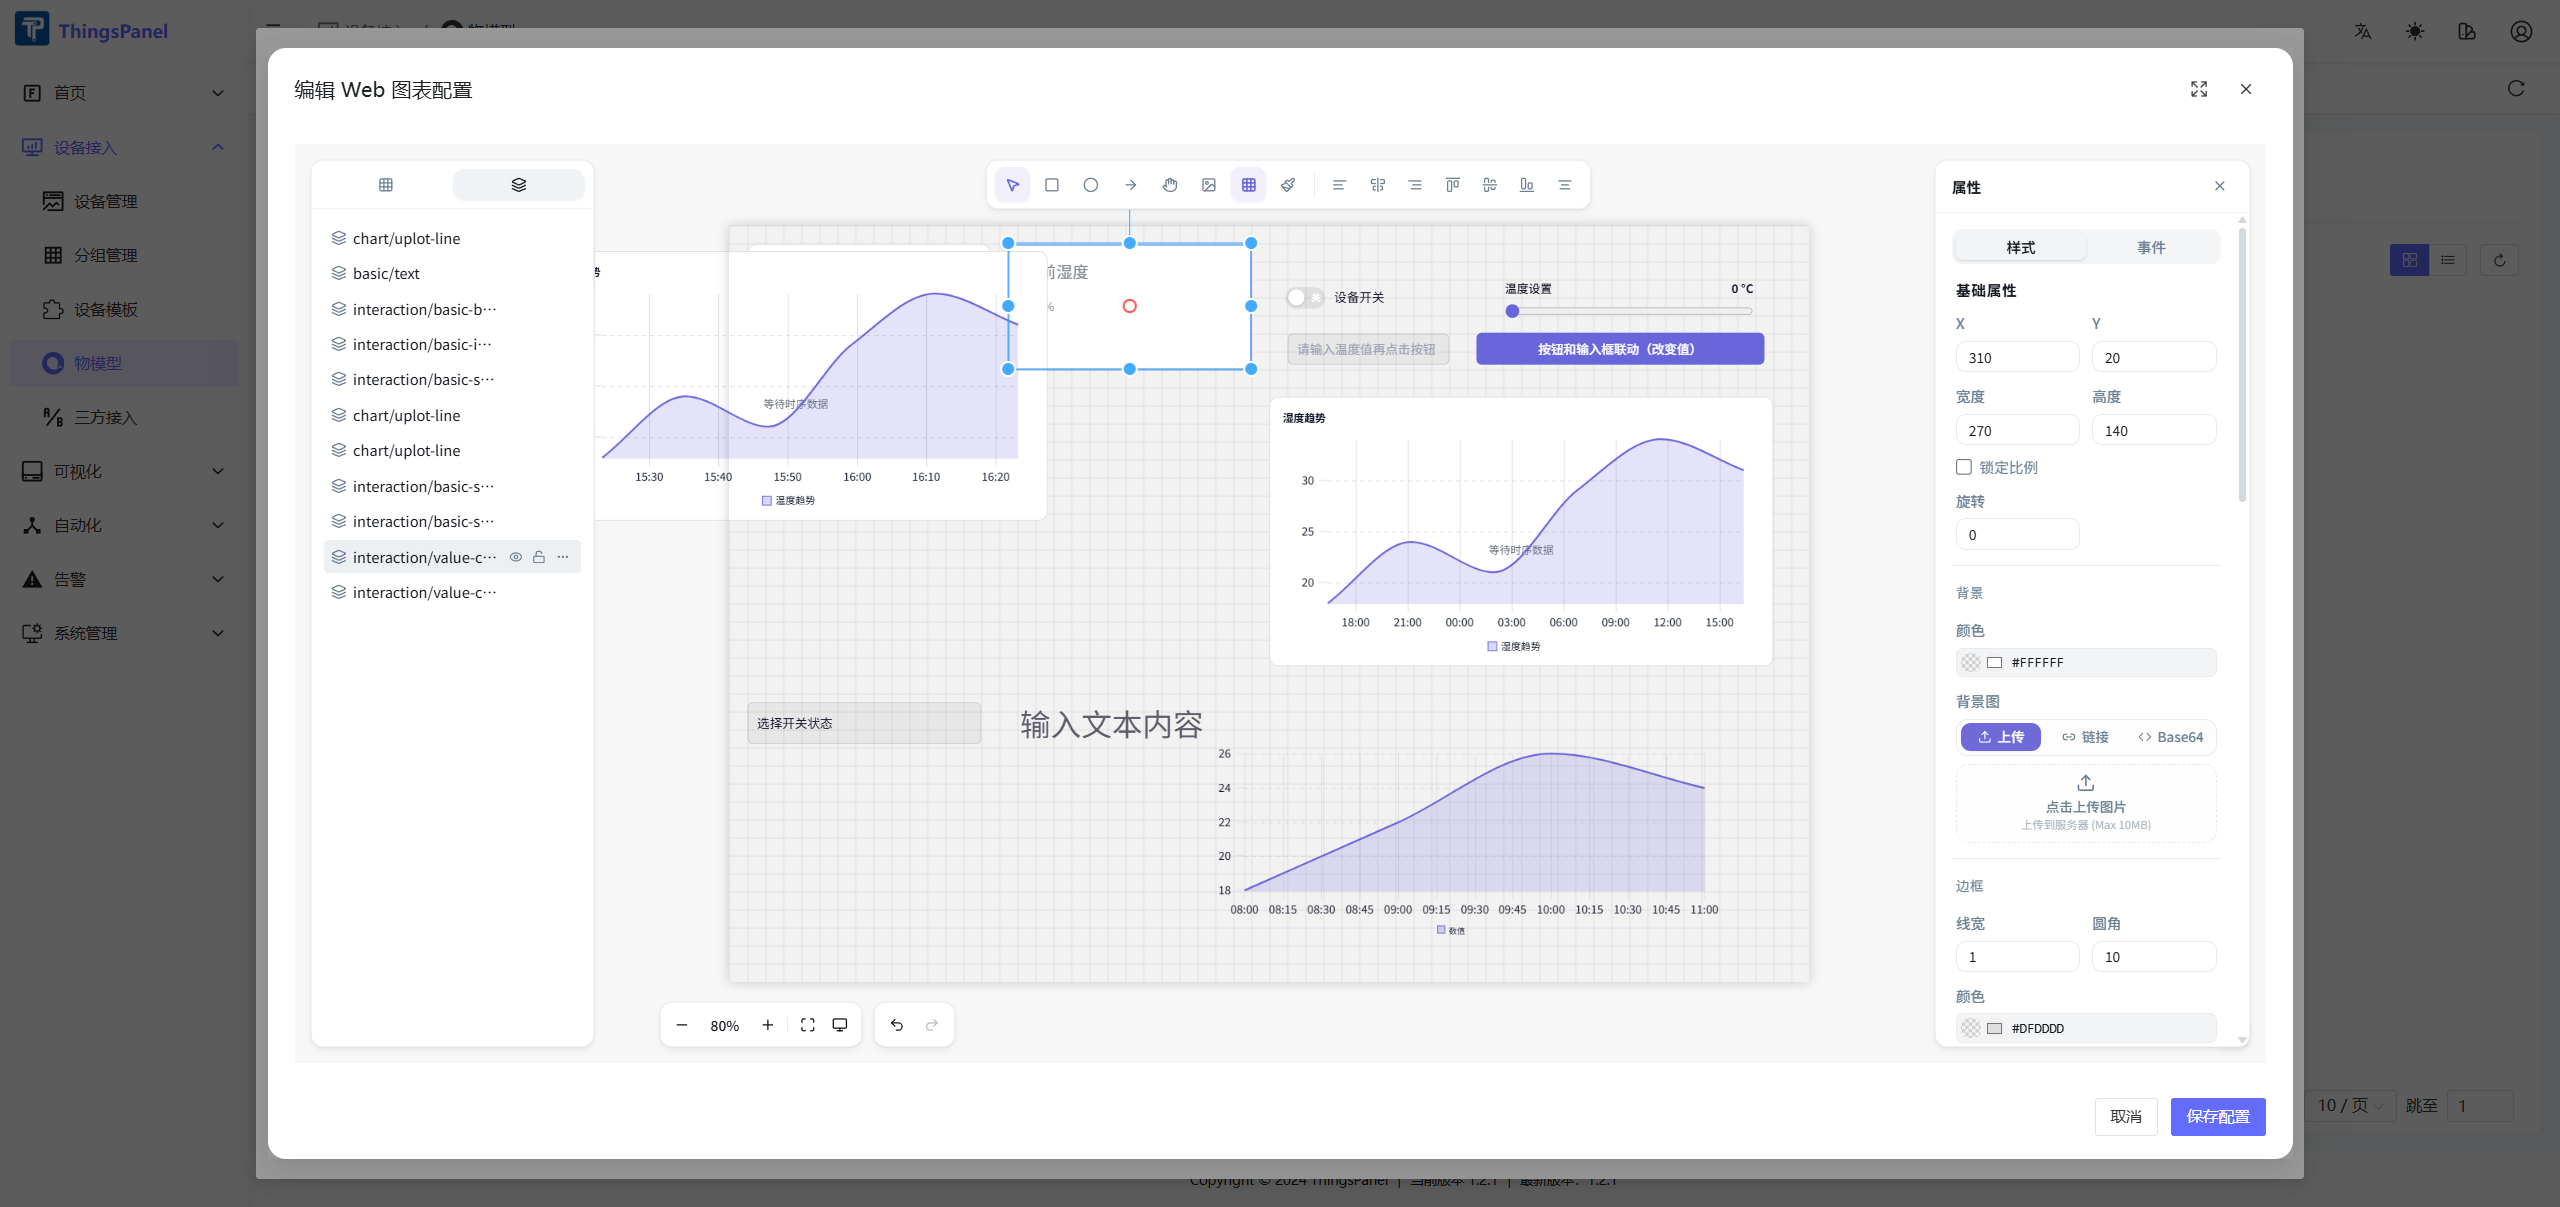
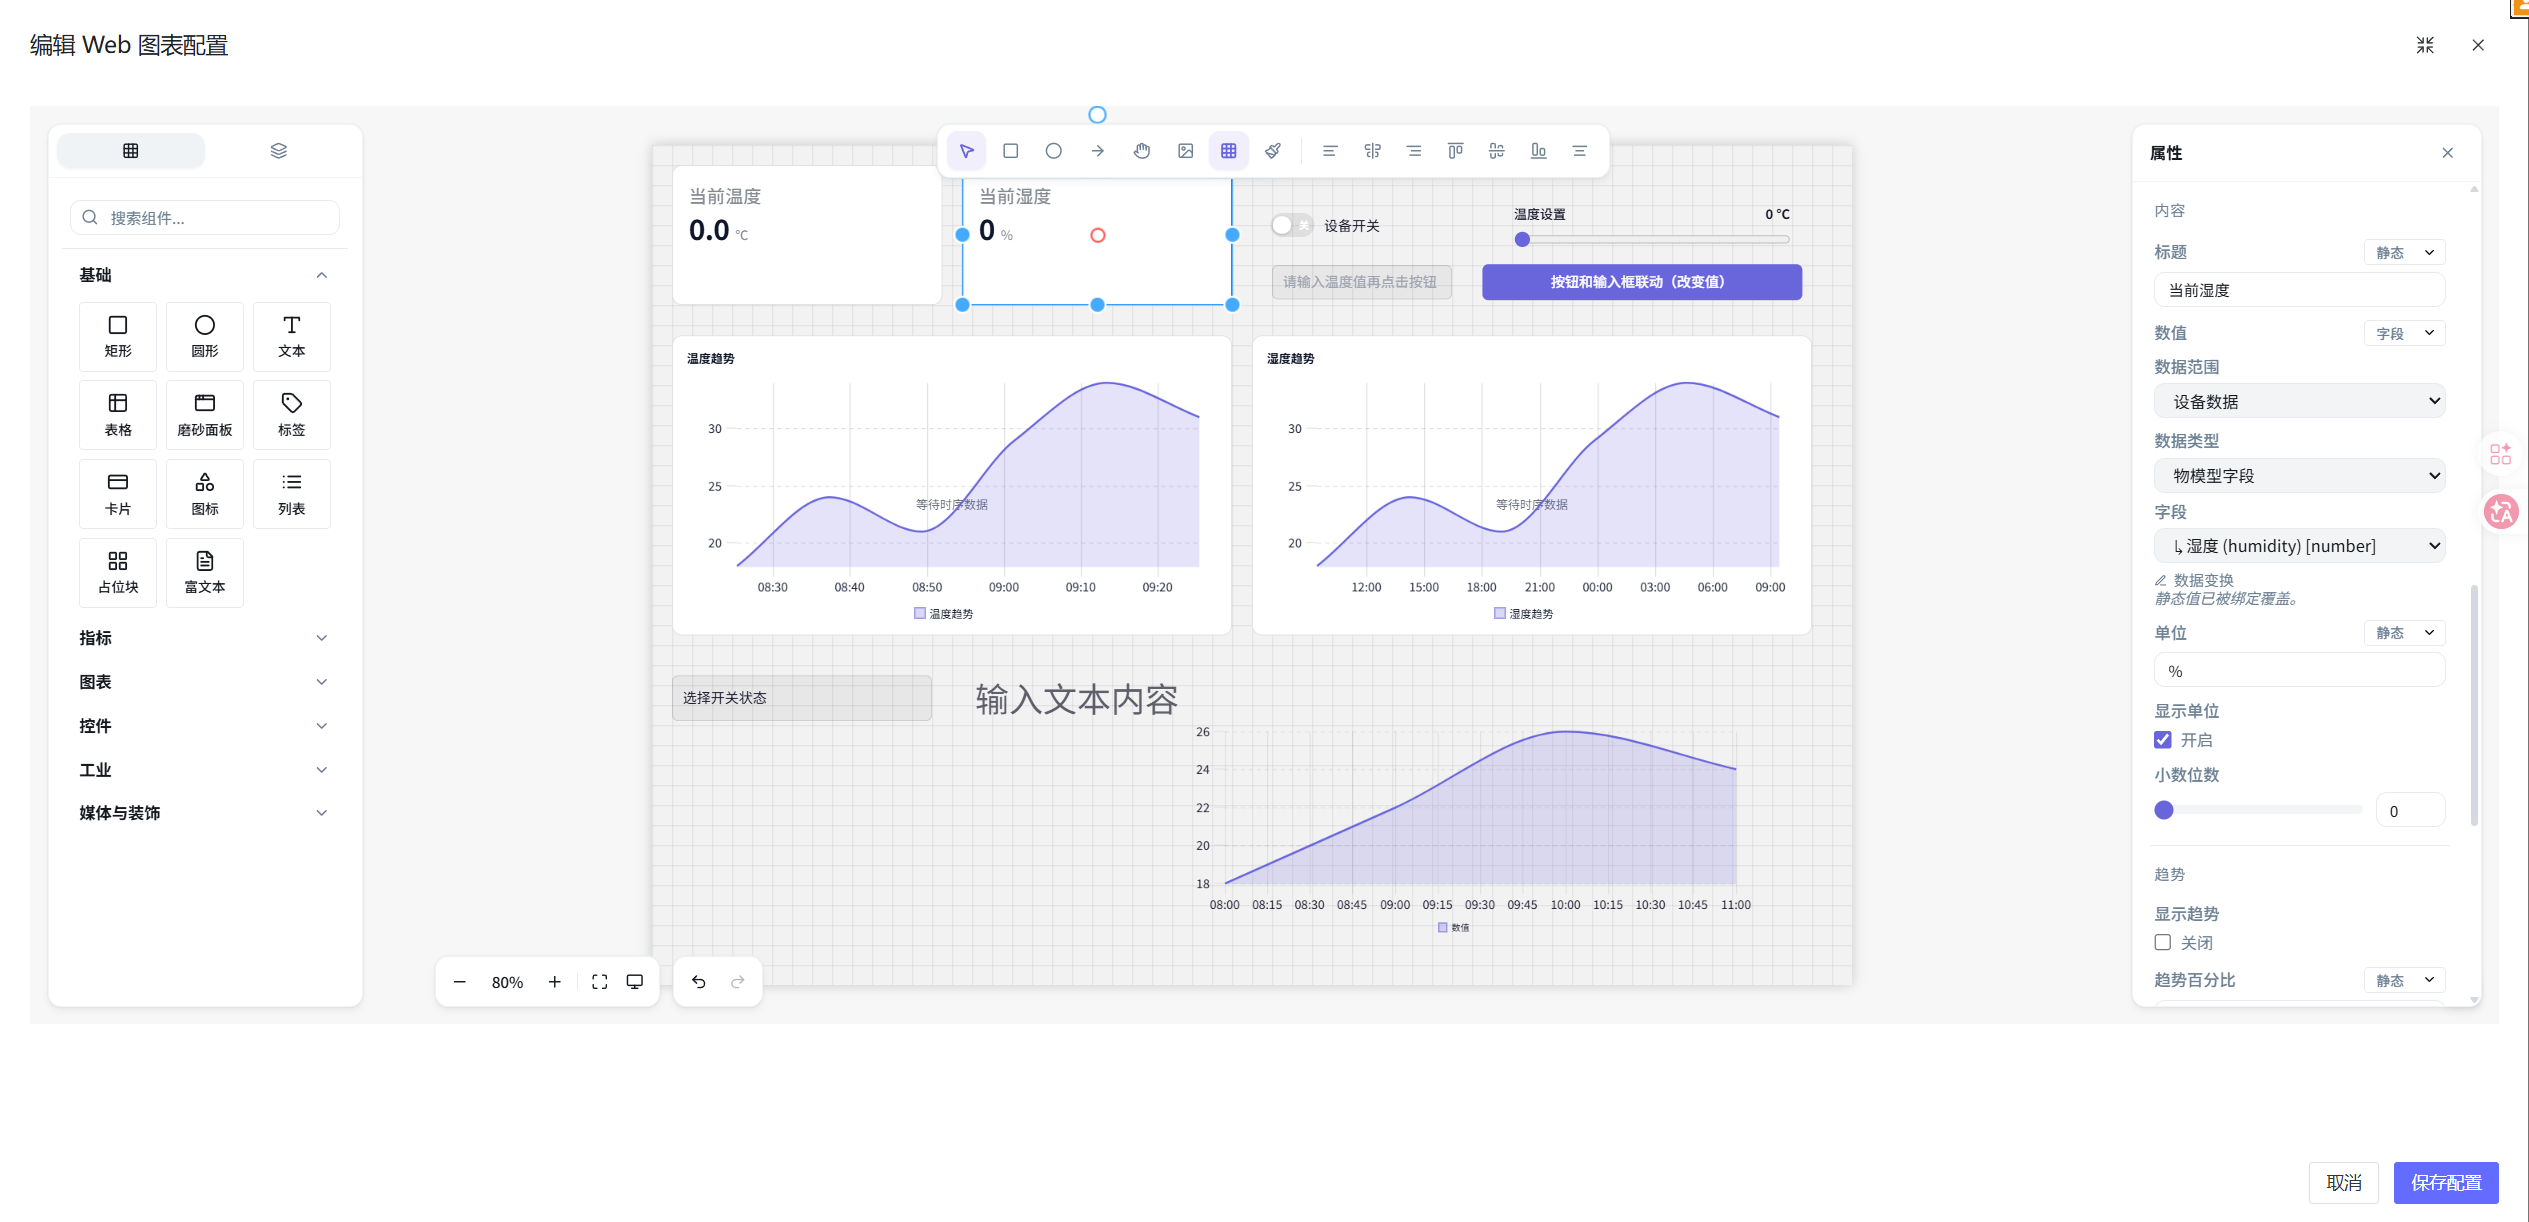
docs: refine thing model binding guide

diff --git a/docs/user-guide/tenant-operation-manual/device-mgt/device_template.md b/docs/user-guide/tenant-operation-manual/device-mgt/device_template.md
@@ -53,15 +53,15 @@ The Web chart step is configured through the embedded ThingsVis preview and edit
 
 Select a widget on the canvas, or switch to **Layers** and select the target widget by name. The selected widget's binding options are shown in the right property panel.
 
-For a trend chart, select a line chart widget, such as `chart/uplot-line`. In **Content**, configure the chart title and display options. In **Data**, set the dataset binding mode to **Field**, set **Data Range** to **Device Data**, set **Data Type** to **Historical Data**, and select a historical array field such as `temperature__history` or `humidity__history`. Configure the time range, aggregation function, aggregation window, smooth curve, and area fill as needed.
+For a trend chart, select a line chart widget, such as `chart/uplot`. In **Content**, configure the chart title and display options. In **Data**, set the dataset binding mode to **Field**, set **Data Range** to **Device Data**, set **Data Type** to **Historical Data**, and select a historical array field such as `temperature__history` or `humidity__history`. Configure the time range, aggregation function, aggregation window, smooth curve, and area fill as needed.
 
 ![Trend Chart Data Binding](./images/image70.png)
 
-For a value card, select `interaction/value-card-simple`. Set the card title, then set the value binding mode to **Field**. Use **Device Data** as the data range, **Thing Model Field** as the data type, and select a numeric field such as `humidity` or `temperature`. Configure the unit, whether to show the unit, the decimal places, and optional trend or icon display.
+For a value card, select `interaction/value-card`. Set the card title, then set the value binding mode to **Field**. Use **Device Data** as the data range, **Thing Model Field** as the data type, and select a numeric field such as `humidity` or `temperature`. Configure the unit, whether to show the unit, the decimal places, and optional trend or icon display.
 
 ![Value Card Data Binding](./images/image71.png)
 
-For a switch, select `interaction/basic-switch`. Set **Switch Status** to **Field**, use **Device Data** as the data range, select **Thing Model Field**, and bind it to a Boolean field such as `switch`. Configure the label text, label position, on/off text, size, colors, and behavior options such as disabled state or confirmation before switching.
+For a switch, select `interaction/switch`. Set **Switch Status** to **Field**, use **Device Data** as the data range, select **Thing Model Field**, and bind it to a Boolean field such as `switch`. Configure the label text, label position, on/off text, size, colors, and behavior options such as disabled state or confirmation before switching.
 
 ![Switch Data Binding](./images/image72.png)
 

diff --git a/i18n/zh-Hans/docusaurus-plugin-content-docs/current/user-guide/tenant-operation-manual/device-mgt/device_template.md b/i18n/zh-Hans/docusaurus-plugin-content-docs/current/user-guide/tenant-operation-manual/device-mgt/device_template.md
@@ -53,15 +53,15 @@ sidebar_position: 4
 
 在画布中选中组件，或切换到 **图层** 后按组件名称选择目标组件。选中后，右侧属性面板会显示该组件的数据绑定项。
 
-配置曲线图时，选择 `chart/uplot-line` 等折线图组件。在 **内容** 中设置标题、图例、X 轴、Y 轴等显示项；在 **数据** 中将数据集绑定模式设为 **字段**，数据范围选择 **设备数据**，数据类型选择 **历史数据**，字段选择 `temperature__history` 或 `humidity__history` 这类历史数组字段。随后按需要设置时间范围、聚合函数、聚合窗口、平滑曲线和面积填充。
+配置曲线图时，选择 `图表/时序图` 等折线图组件。在 **内容** 中设置标题、图例、X 轴、Y 轴等显示项；在 **数据** 中将数据集绑定模式设为 **字段**，数据范围选择 **设备数据**，数据类型选择 **历史数据**，字段选择 `temperature__history` 或 `humidity__history` 这类历史数组字段。随后按需要设置时间范围、聚合函数、聚合窗口、平滑曲线和面积填充。
 
 ![曲线图数据绑定](./images/image70.png)
 
-配置数值卡片时，选择 `interaction/value-card-simple`。先设置卡片标题，再将 **数值** 的绑定模式设为 **字段**。数据范围选择 **设备数据**，数据类型选择 **物模型字段**，字段选择 `humidity` 或 `temperature` 等数值字段。根据物模型字段设置单位、是否显示单位、小数位数，也可以按需要开启趋势或图标。
+配置数值卡片时，选择 `指标/数值`。先设置卡片标题，再将 **数值** 的绑定模式设为 **字段**。数据范围选择 **设备数据**，数据类型选择 **物模型字段**，字段选择 `humidity` 或 `temperature` 等数值字段。根据物模型字段设置单位、是否显示单位、小数位数，也可以按需要开启趋势或图标。
 
 ![数值卡片数据绑定](./images/image71.png)
 
-配置开关时，选择 `interaction/basic-switch`。将 **开关状态** 的绑定模式设为 **字段**，数据范围选择 **设备数据**，数据类型选择 **物模型字段**，字段绑定到 `switch` 这类布尔字段。然后配置标签文字、标签位置、开启文字、关闭文字、尺寸、颜色，以及禁用、确认后切换等行为选项。
+配置开关时，选择 `控制/开关`。将 **开关状态** 的绑定模式设为 **字段**，数据范围选择 **设备数据**，数据类型选择 **物模型字段**，字段绑定到 `switch` 这类布尔字段。然后配置标签文字、标签位置、开启文字、关闭文字、尺寸、颜色，以及禁用、确认后切换等行为选项。
 
 ![开关数据绑定](./images/image72.png)
 
